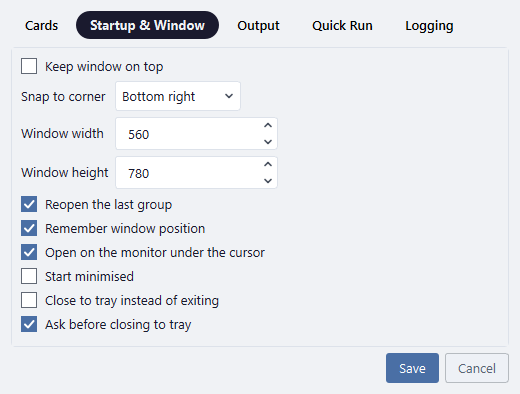
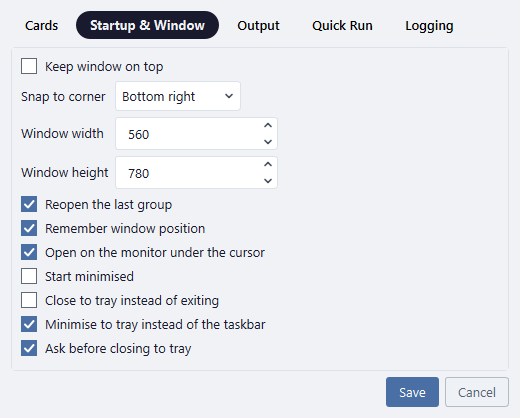
fix: back from the tray as it went; minimising can stay on the taskbar
Issue #22 -- the window's size and place reset after the tray. Two causes:
- restore_from_tray always called showNormal(), so a window hidden while
  maximised (closed to the tray from maximised) came back un-maximised,
  at its smaller normal size and place;
- a second launch with "open on the cursor's monitor" re-applied the
  window's own geometry to the hidden window even when the cursor was on
  the same monitor.
hide_to_tray now notes whether the window was maximised, and
traypolicy.restore_plan() decides: show maximised if it was, and move
only when the cursor is on another monitor (normal first, so it then
maximises there).

Issue #21 -- minimise without hiding to the tray. A "Minimise to tray
instead of the taskbar" option (minimize_to_tray, Startup & Window), on by
default so nothing changes until it is turned off; off, minimising leaves
RYOS on the taskbar like any other window (traypolicy.on_minimize).

Unit tests for both rules; qt_smoke's new tray check fails on the old
code on all three counts and passes now.

Refs #21, #22.

diff --git a/tests/qt_smoke.py b/tests/qt_smoke.py
@@ -4117,6 +4117,82 @@ def check_focus_starts_in_search(app):
     print("  [ok] focus: starts in the search box; clicks leave no button focused; Tab reaches them")
 
 
+def check_tray_round_trip(app):
+    """Issues #21 and #22: minimising can stay on the taskbar, and a window
+    hidden to the tray comes back as it went -- maximised if it was, at its
+    own place -- whether from the tray icon or a second launch."""
+    from types import SimpleNamespace
+
+    from ryos.qtui.shell import MainWindow
+    from ryos.themes import REFERENCE
+
+    def window(**settings):
+        win = MainWindow(REFERENCE["light"], settings={
+            "quick_run_enabled": False, "close_to_tray": True,
+            "prompt_close_to_tray": False, "open_on_cursor_monitor": True, **settings})
+        win._tray = SimpleNamespace(available=True)
+        win.raise_ = lambda: None
+        win.activateWindow = lambda: None
+        win.set_geometry_string("600x500+40+40")
+        win.show()
+        app.processEvents()
+        return win
+
+    def settle():
+        for _ in range(5):
+            app.processEvents()
+
+    # Maximised, closed to the tray, back from the tray icon: maximised.
+    win = window()
+    win.showMaximized()
+    settle()
+    win.close()
+    settle()
+    if not win.isHidden():
+        PROBLEMS.append("close-to-tray did not hide the window")
+    win.restore_from_tray()
+    settle()
+    if not win.isMaximized():
+        PROBLEMS.append("a window maximised when hidden to the tray came back un-maximised (#22)")
+    win._quitting = True
+    win.close()
+
+    # Normal, relaunched with the cursor on its own monitor: not moved at all.
+    win = window()
+    here = (0, 0, 1920, 1040)
+    win.cursor_area = lambda: here
+    win.area_at = lambda _x, _y: here
+    moved: list = []
+    win.set_geometry_string = lambda g: moved.append(g)
+    win.close()
+    settle()
+    win.restore_from_tray(follow_cursor=True)
+    settle()
+    if moved or win.geometry_string() != "600x500+40+40":
+        PROBLEMS.append(f"a relaunch on the same monitor moved the window: {moved}, "
+                        f"now {win.geometry_string()} (#22)")
+    win._quitting = True
+    win.close()
+
+    # Minimising: to the tray with the option on (the control), and left on
+    # the taskbar with it off.
+    import time as _time
+    for on in (True, False):
+        win = window(minimize_to_tray=on)
+        win.showMinimized()
+        end = _time.time() + 3
+        while _time.time() < end and not win.hidden_to_tray:
+            app.processEvents()
+            _time.sleep(0.02)
+        if win.hidden_to_tray != on:
+            PROBLEMS.append(f"with Minimise to tray {'on' if on else 'off'}, minimising "
+                            f"{'did not hide' if on else 'hid'} the window (#21)")
+        win._quitting = True
+        win.close()
+    print("  [ok] tray: comes back maximised, not moved on its own monitor; "
+          "minimise can stay on the taskbar")
+
+
 def check_keyboard_through_the_list(app):
     """The list works from the keyboard: Down from the search box, arrows
     between rows (favourites, pipelines, scripts), Enter runs, F2 edits, the
@@ -4877,6 +4953,7 @@ def main() -> int:
     check_search_empty_state(app)
     check_focus_starts_in_search(app)
     check_keyboard_through_the_list(app)
+    check_tray_round_trip(app)
     check_maximised_layout(app)
     check_ampersands_show(app)
     if _real_log_state() != real_log:

diff --git a/tests/test_ryos.py b/tests/test_ryos.py
@@ -7915,14 +7915,39 @@ class TestTrayPolicy(unittest.TestCase):
         self.assertFalse(s["prompt_close_to_tray"])
 
     def test_minimize_and_start(self):
-        self.assertEqual(traypolicy.on_minimize(True, False), traypolicy.HIDE)
-        self.assertEqual(traypolicy.on_minimize(True, True), traypolicy.NOTHING)
-        self.assertEqual(traypolicy.on_minimize(False, False), traypolicy.NOTHING)
+        self.assertEqual(traypolicy.on_minimize({}, True, False), traypolicy.HIDE)
+        self.assertEqual(traypolicy.on_minimize({}, True, True), traypolicy.NOTHING)
+        self.assertEqual(traypolicy.on_minimize({}, False, False), traypolicy.NOTHING)
         self.assertEqual(traypolicy.on_start({}, True), traypolicy.NOTHING)
         self.assertEqual(traypolicy.on_start({"start_minimized": True}, True),
                          traypolicy.HIDE)
         self.assertEqual(traypolicy.on_start({"start_minimized": True}, False),
                          traypolicy.MINIMIZE)
+
+    def test_minimising_can_stay_on_the_taskbar(self):
+        # Issue #21: minimise without hiding to the tray.
+        off = {"minimize_to_tray": False}
+        self.assertEqual(traypolicy.on_minimize(off, True, False), traypolicy.NOTHING)
+        self.assertEqual(traypolicy.on_minimize({"minimize_to_tray": True}, True, False),
+                         traypolicy.HIDE)
+
+    def test_the_window_comes_back_as_it_went(self):
+        # Issue #22: a maximised window hidden to the tray came back
+        # un-maximised, at a wrong size.
+        here, there = (0, 0, 1920, 1040), (1920, 0, 1536, 816)
+        self.assertEqual(traypolicy.restore_plan(True, None, None),
+                         (False, traypolicy.SHOW_MAXIMIZED))
+        self.assertEqual(traypolicy.restore_plan(False, None, None),
+                         (False, traypolicy.SHOW_NORMAL))
+        # Relaunched with the cursor on the window's own monitor: nothing to
+        # move -- re-applying the same geometry to the hidden window broke it.
+        self.assertEqual(traypolicy.restore_plan(True, here, here),
+                         (False, traypolicy.SHOW_MAXIMIZED))
+        # On another monitor: moved there, and still maximised.
+        self.assertEqual(traypolicy.restore_plan(True, there, here),
+                         (True, traypolicy.SHOW_MAXIMIZED))
+        self.assertEqual(traypolicy.restore_plan(False, there, here),
+                         (True, traypolicy.SHOW_NORMAL))
 
     def test_quit_prompt_and_verbs(self):
         self.assertIsNone(traypolicy.quit_prompt(0))

diff --git a/ryos/qtui/shell.py b/ryos/qtui/shell.py
@@ -1728,18 +1728,29 @@ class MainWindow(QMainWindow):
         return self._hidden_to_tray
 
     def hide_to_tray(self) -> None:
+        # Maximised (minimised from there or not): it comes back maximised.
+        self._restore_maximized = bool(self.windowState() & Qt.WindowState.WindowMaximized)
         self._hidden_to_tray = True
         self.hide()
 
     def restore_from_tray(self, follow_cursor: bool = False) -> None:
-        if follow_cursor and self._settings.get("open_on_cursor_monitor"):
-            target = self.cursor_area()
-            if target is not None:
-                saved = self._last_normal_geometry or self.geometry_string()
-                src = self.area_at(*screens.geometry_origin(saved)) or target
-                self.set_geometry_string(
-                    screens.relocate_geometry(saved, src, target))
-        self.showNormal()
+        target = (self.cursor_area()
+                  if follow_cursor and self._settings.get("open_on_cursor_monitor")
+                  else None)
+        saved = self._last_normal_geometry or self.geometry_string()
+        src = (self.area_at(*screens.geometry_origin(saved)) or target
+               if target is not None else None)
+        move, show = traypolicy.restore_plan(
+            getattr(self, "_restore_maximized", False), src, target)
+        if move:
+            if show == traypolicy.SHOW_MAXIMIZED:
+                # Normal first, so it maximises on the monitor it moves to.
+                self.setWindowState(Qt.WindowState.WindowNoState)
+            self.set_geometry_string(screens.relocate_geometry(saved, src, target))
+        if show == traypolicy.SHOW_MAXIMIZED:
+            self.showMaximized()
+        else:
+            self.showNormal()
         self.raise_()
         self.activateWindow()
         self._hidden_to_tray = False
@@ -1778,7 +1789,7 @@ class MainWindow(QMainWindow):
             # Maximised or back: after the state settles, like the tray hide.
             QTimer.singleShot(0, self.sync_layout)
         if (event.type() == QEvent.Type.WindowStateChange and self.isMinimized()
-                and traypolicy.on_minimize(self.tray_available(),
+                and traypolicy.on_minimize(self._settings, self.tray_available(),
                                            self._hidden_to_tray) == traypolicy.HIDE):
             # Hiding from inside the state change fights the window manager;
             # do it on the next turn.

diff --git a/ryos/traypolicy.py b/ryos/traypolicy.py
@@ -125,9 +125,31 @@ def after_prompt(settings: dict, answer: str, dont_ask: bool) -> tuple[str, bool
     return NOTHING, False
 
 
-def on_minimize(tray_available: bool, hidden: bool) -> str:
-    """Minimising goes to the tray when there is one."""
+def on_minimize(settings: dict, tray_available: bool, hidden: bool) -> str:
+    """Minimising goes to the tray when there is one -- unless the user would
+    rather keep it on the taskbar like any other window (issue #21)."""
+    if not settings.get("minimize_to_tray", True):
+        return NOTHING
     return HIDE if tray_available and not hidden else NOTHING
+
+
+#: How a window hidden to the tray comes back.
+SHOW_NORMAL, SHOW_MAXIMIZED = "normal", "maximized"
+
+
+def restore_plan(was_maximized: bool, window_area, cursor_area) -> tuple[bool, str]:
+    """(move it to the cursor's monitor first, how to show it).
+
+    It comes back as it went: maximised if it was -- shown "normal", a window
+    hidden while maximised came back un-maximised at a wrong size (issue #22).
+    It moves only when the cursor is on another monitor: re-applying its own
+    geometry to the hidden window was what broke the size on a relaunch.
+    ``window_area`` and ``cursor_area`` are work areas, or None when there is
+    nothing to follow.
+    """
+    move = (cursor_area is not None and window_area is not None
+            and tuple(window_area) != tuple(cursor_area))
+    return move, SHOW_MAXIMIZED if was_maximized else SHOW_NORMAL
 
 
 def on_start(settings: dict, tray_available: bool) -> str:

diff --git a/ryos/settings_schema.py b/ryos/settings_schema.py
@@ -114,6 +114,8 @@ FIELDS: tuple[Field, ...] = (
           STARTUP),
     Field("start_minimized", BOOL, "Start minimised", STARTUP),
     Field("close_to_tray", BOOL, "Close to tray instead of exiting", STARTUP),
+    Field("minimize_to_tray", BOOL, "Minimise to tray instead of the taskbar", STARTUP,
+          help="Off: minimising keeps RYOS on the taskbar like any other window."),
     Field("prompt_close_to_tray", BOOL, "Ask before closing to tray", STARTUP),
     # -- Output ------------------------------------------------------------
     Field("max_output_lines", INT, "Maximum output lines", OUTPUT, minimum=100,

diff --git a/ryos/settings.py b/ryos/settings.py
@@ -40,6 +40,7 @@ _SETTINGS_DEFAULTS: dict = {
     "last_group":             None,
     "start_minimized":        False,
     "close_to_tray":          False,
+    "minimize_to_tray":       True,
     "prompt_close_to_tray":   True,
     "remember_window_geometry": True,
     "window_geometry":        None,

diff --git a/docs/tutorial/11-settings.md b/docs/tutorial/11-settings.md
@@ -27,9 +27,9 @@ Settings are grouped in tabs. Change what you like and click **Save**.
 
 **Startup & Window**
 
-![The Startup & Window tab: keep on top, snap to corner, window width and height, reopen the last group, remember the position, open on the monitor under the cursor, start minimised, close to tray, and ask before closing to tray](images/11-options-startup-window.png)
+![The Startup & Window tab: keep on top, snap to corner, window width and height, reopen the last group, remember the position, open on the monitor under the cursor, start minimised, close to tray, minimise to tray, and ask before closing to tray](images/11-options-startup-window.png)
 
-Where the window opens and how big, whether it stays on top, whether it reopens the last group, and whether closing it keeps RYOS running in the system tray (so schedules keep firing).
+Where the window opens and how big, whether it stays on top, whether it reopens the last group, and whether closing it keeps RYOS running in the system tray (so schedules keep firing). **Minimise to tray instead of the taskbar** is on by default; turn it off and minimising leaves RYOS on the taskbar like any other window. Either way, RYOS comes back from the tray the way it went — maximised if it was.
 
 **Output**
 
